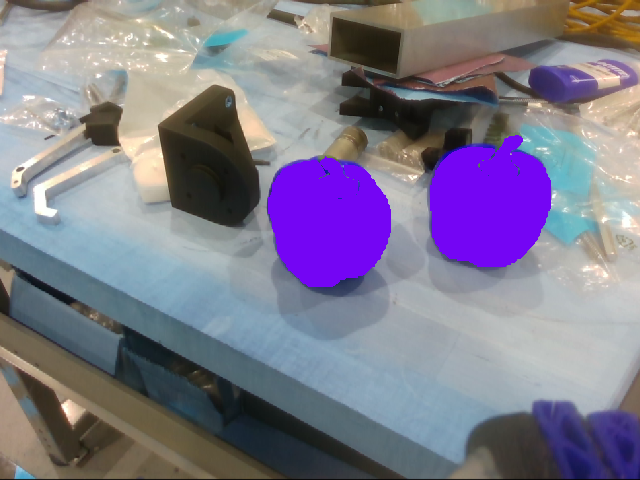
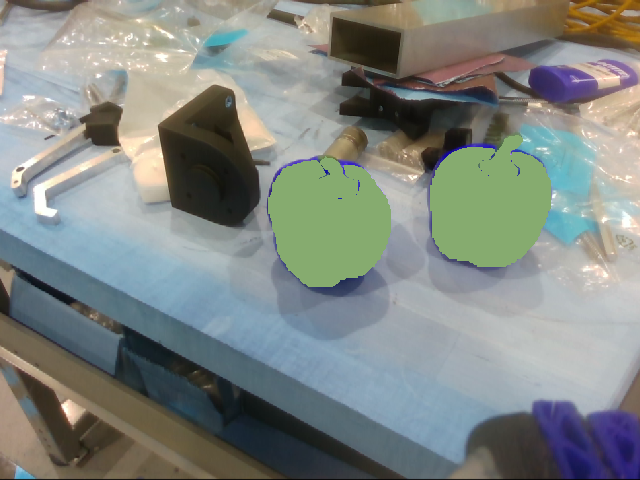
peppers are matching now

Changed region(s): [[0.6562, 0.2812, 0.875, 0.5625], [0.4062, 0.3125, 0.625, 0.5938]]

diff --git a/scripts/match_peppers_util.py b/scripts/match_peppers_util.py
@@ -132,9 +132,7 @@ def match_pepper_fruit_peduncle(pepper_fruit_detections: Dict[int, PepperFruit],
         min_dist = math.inf
         peduncle_match = None
         peduncle_number = 1
-        print("????")
         for pepper_peduncle in pepper_peduncle_detections.values():
-            print("pepper_peduncle.number:", pepper_peduncle.number)
 
             dist = distance_between_pepper_fruit_peduncle(pepper_fruit, pepper_peduncle, image_count*100 + pepper_number*10 + peduncle_number, image)
             x, y, w, h = pepper_fruit.xywh
@@ -155,16 +153,11 @@ def match_pepper_fruit_peduncle(pepper_fruit_detections: Dict[int, PepperFruit],
             peduncle_match = PepperPeduncle(-1)
 
         pepper_fruit_peduncle_distances.append(((pepper_fruit.number, peduncle_match.number), min_dist))
-        visualize_distance(pepper_fruit, peduncle_match, image_count*100 + pepper_number*10 + peduncle_number, image)
-        print(f"Pepper {pepper_fruit.number} and peduncle {peduncle_match.number}")
-        print("pepper xywh: ", pepper_fruit.xywh, " peduncle xywh: ", peduncle_match.xywh)
+        # visualize_distance(pepper_fruit, peduncle_match, image_count*100 + pepper_number*10 + peduncle_number, image)
 # 
     pepper_fruit_peduncle_match = pepper_fruit_peduncle_distances #remove_duplicate_peduncles(pepper_fruit_peduncle_distances)
-    print("================== ")
     for i, ((fruit, peduncle), _ )in enumerate(pepper_fruit_peduncle_distances):
         if peduncle == -1:
             continue
-        visualize_distance(pepper_fruit_detections[fruit], pepper_peduncle_detections[peduncle], image_count*10000+i, image)
-        print(f"Pepper {fruit} and peduncle {peduncle}")
-    print("================== END")
+        # visualize_distance(pepper_fruit_detections[fruit], pepper_peduncle_detections[peduncle], image_count*10000+i, image)
     return pepper_fruit_peduncle_match

diff --git a/scripts/perception_node.py b/scripts/perception_node.py
@@ -298,6 +298,7 @@ class PerceptionNode:
                     
                     # TODO add pepper xywh
                     peduncle_detection = PepperPeduncle(self.peduncle_count, np.array(mask.cpu()), segment=segment)
+                    self.peduncle_detections[self.peduncle_count] = peduncle_detection
                     self.peduncle_count += 1
                     
                     # visualize the peduncle mask in rviz 
@@ -325,9 +326,6 @@ class PerceptionNode:
                     if poi_x == -1 and poi_y == -1:
                         continue
 
-                    self.peduncle_detections[peduncle_count] = peduncle_detection
-                    peduncle_count += 1
-                                        
                     # These are in NumPy axes
                     self.peduncle_center.x = poi_x
                     self.peduncle_center.y = poi_y
@@ -447,12 +445,13 @@ class PerceptionNode:
     def state_callback(self, msg):
         self.state = msg.data
 
-    def visualize_result(self, image, segment, poi=None, color=(100, 0, 125, 0.1), lighter = False):
+    def visualize_result(self, image, segment, poi=None, color=[100, 0, 125, 0.1], lighter = False):
+        color = list(color)
         if lighter:
             # print("changed color : ", color, end=" -> ")
-            color[0] = (color[0] + 200) % 255
-            # print(color)
-            
+            color[0] = min(color[0] + 20, 255)
+            color[1] = min(color[1] + 20, 255)
+            color[2] = min(color[2] + 20, 255)
         mask_coords = (segment @ np.array([[self.img_width, 0], [0, self.img_height]])).astype(int)
         image = cv2.fillPoly(image, pts=[mask_coords], color=color)
         if poi is not None:
